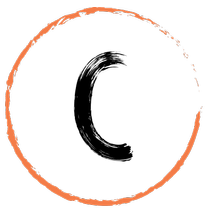
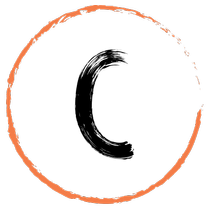
Alterações do icone e splashscvreen. E Saida do app

diff --git a/src/router/routes.js b/src/router/routes.js
@@ -5,8 +5,8 @@ const routes = [
     component: () => import('layouts/MyLayout.vue'),
     children: [
       // { path: '', component: () => import('pages/Index.vue') },
-      { path: '', name: 'login', component: () => import('pages/Login.vue') },
-      { path: '/menu', name: 'menu', component: () => import('pages/Home.vue') },
+      { path: 'login', name: 'login', component: () => import('pages/Login.vue') },
+      { path: '/', name: 'menu', component: () => import('pages/Home.vue') },
       { path: '/receitas', name: "receitas", component: () => import('pages/Receitas.vue') },
       { path: '/receitas/:mes/:ano', name: "receitasPorMes", component: () => import('pages/Receitas.vue') },
       { path: '/receitas/editar/:id', name: "editarReceita", component: () => import('pages/cadastraReceita.vue') },

diff --git a/src/pages/Home.vue b/src/pages/Home.vue
@@ -25,9 +25,14 @@ export default {
         
       }
   },
+
   mounted() {
-    this.$store.commit('modulos/setTitulo', 'Menu');
-    this.$store.dispatch('modulos/getProdutos')
+    let usuario = this.$store.state.modulos.user;
+    if(usuario == undefined || usuario.nome == undefined )
+      this.$router.push({name: "login"});
+    else{
+      this.$store.commit('modulos/setTitulo', 'Menu');
+    }
   }
 }
 </script>

diff --git a/src/pages/login.vue b/src/pages/login.vue
@@ -80,7 +80,7 @@ export default {
         } 
         this.$store.dispatch('modulos/login', dadosLogin).then(resp => {
           console.log(resp)
-          this.$router.replace({name: 'menu'})
+          this.$router.go(-1)
         })
         .catch(err => {
           console.log(err)
